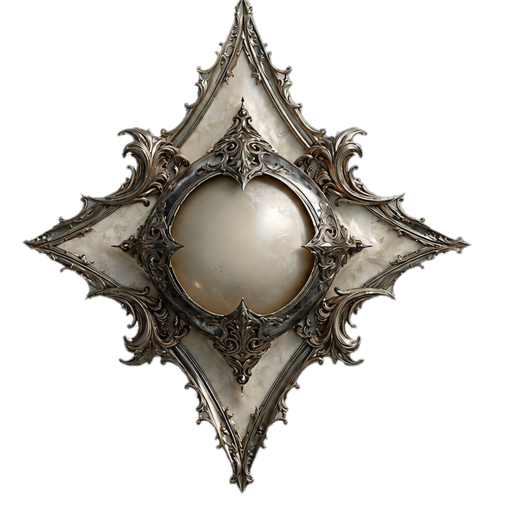
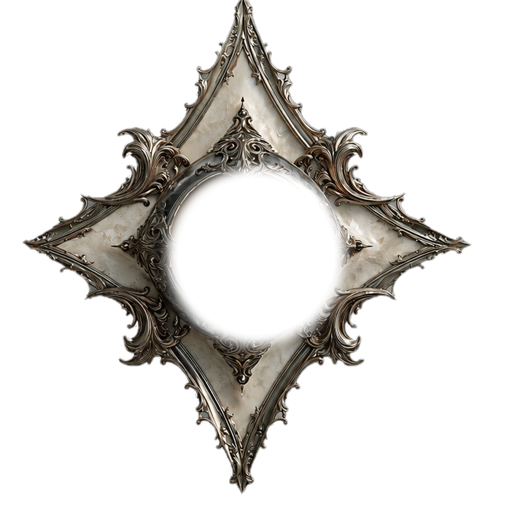
Relic gems: seat them INSIDE the socket (gem behind a holed frame)
A flat gem painted over the frame could never respect the bezel — it always covered
the ring and, once big enough to fill the socket, spilled past the frame's concave
edges. Fixed structurally: knocked the pearl socket out of each frame PNG to a
transparent hole, and render the gem BEHIND the frame (frame z-index wins). The ornate
bezel and metal now sit in front and clip the gem — it fills the socket and cannot
bleed over the frame edge. The glyph shows through the hole on top of the gem.

Claude-Session: https://claude.ai/code/session_01JbsNTb2Jvjps6CqMJRSas3

Changed region(s): [[0.3125, 0.3125, 0.6875, 0.6875]]

diff --git a/style.css b/style.css
@@ -1488,12 +1488,13 @@ body[data-deal="house"] .hand .cicon { width: 46px; height: 46px; padding: 5px; 
 /* Relic (boss-trophy) emblems wear an ornate diamond bezel instead of the round
    medallion; the category gem seats in the diamond's central socket (smaller than
    the round frame's). Wildcard gets its own distinct diamond. */
-.charmemblem.ce-relic .ce-frame { background-image: url('assets/charms/relic-frame.png?v=4'); }
-.charmemblem.ce-relic.ce-relic-wild .ce-frame { background-image: url('assets/charms/relic-frame-wild.png?v=4'); }
-/* The diamond's socket is larger than the round medallion's, so the gem fills more
-   of it (42% vs 37%) — a small gem left a big lit pearl showing asymmetrically, which
-   read as off-centre. At this size the standard glyph fits, so no glyph rescale. */
-.charmemblem.ce-relic .ce-gem { width: 38%; height: 38%; }
+/* The frame PNGs have their pearl socket knocked out to a transparent hole. The gem
+   sits BEHIND the frame (frame z-index wins) and fills the hole, so the ornate bezel
+   and metal render IN FRONT and clip any gem overflow — the gem can never bleed over
+   the frame edge. The glyph shows through the hole on top of the gem. */
+.charmemblem.ce-relic .ce-frame { background-image: url('assets/charms/relic-frame.png?v=5'); z-index: 2; }
+.charmemblem.ce-relic.ce-relic-wild .ce-frame { background-image: url('assets/charms/relic-frame-wild.png?v=5'); }
+.charmemblem.ce-relic .ce-gem { width: 40%; height: 40%; z-index: 1; box-shadow: none; }
 .deckdock { display: flex; align-items: center; justify-content: center; gap: 16px; margin: 2px 0 4px; }
 .deckdot { width: 54px; height: 54px; border-radius: 11px; border: 2px solid var(--gold-dim); background-size: cover; background-position: center top;
   cursor: pointer; opacity: 0.6; transition: opacity 0.14s ease, transform 0.14s ease, border-color 0.14s ease; }

diff --git a/index.html b/index.html
@@ -6,7 +6,7 @@
 <title>Stonelock — A Game of Regional Leverage</title>
 <link rel="preconnect" href="https://fonts.googleapis.com">
 <link href="https://fonts.googleapis.com/css2?family=Cinzel:wght@500;600;700&family=Alegreya:ital,wght@0,400;0,500;0,600;0,700;1,400;1,500&display=swap" rel="stylesheet">
-<link rel="stylesheet" href="style.css?v=319">
+<link rel="stylesheet" href="style.css?v=320">
 </head>
 <body>
 
